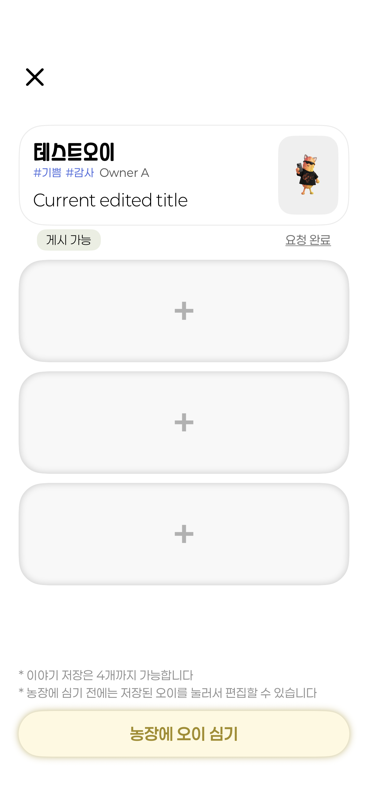
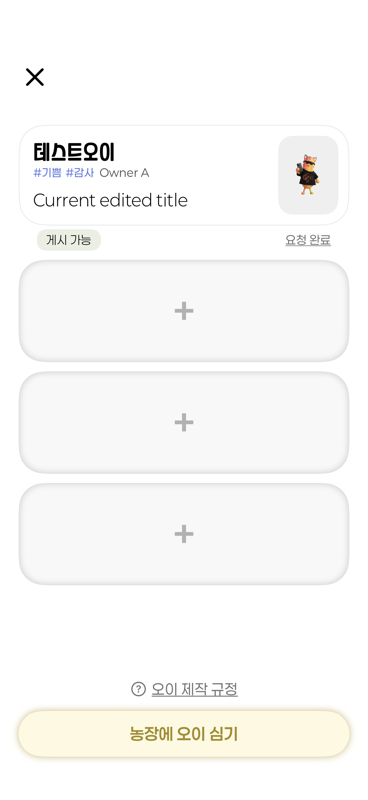
[feat] 이야기 목록에 오이 제작 규정 팝업 추가

Changed region(s): [[0.0598, 0.8125, 0.8668, 0.875]]

diff --git a/apps/ios/OiDonation/Features/Profile/OiStoryListView.swift b/apps/ios/OiDonation/Features/Profile/OiStoryListView.swift
@@ -25,6 +25,7 @@ struct OiStoryListView: View {
     var canPlant = false
 
     @State private var listHeight: CGFloat = 0
+    @State private var showsProductionRules = false
 
     var body: some View {
         Group {
@@ -300,22 +301,13 @@ struct OiStoryListView: View {
     }
 
     private var footer: some View {
-        // Figma: 12pt from the notices to the buttons, 13pt above the home indicator.
-        VStack(alignment: .leading, spacing: 12) {
-            // 13pt text on a 19.5pt (150%) line.
-            VStack(alignment: .leading, spacing: 4) {
-                ForEach(Array(notices.enumerated()), id: \.offset) { _, notice in
-                    Text("* \(notice)")
-                        .lineLimit(usesAccessibilityLayout ? nil : 1)
-                        .minimumScaleFactor(usesAccessibilityLayout ? 1 : 0.8)
-                        .fixedSize(horizontal: false, vertical: true)
-                        .frame(maxWidth: .infinity, alignment: .leading)
-                }
+        VStack(alignment: .leading, spacing: showsPublicationReview ? 2 : 12) {
+            if showsPublicationReview {
+                OiStoryProductionRulesButton(isPresented: $showsProductionRules)
+                    .frame(maxWidth: .infinity)
+            } else {
+                legacyNotices
             }
-            .font(.custom("Paperlogy-4Regular", size: 13, relativeTo: .subheadline))
-            .tracking(0.26)
-            .foregroundStyle(Color(red: 147 / 255, green: 147 / 255, blue: 147 / 255))
-            .lineSpacing(4)
 
             if showsPublicationReview, let onPlant {
                 Button(action: onPlant) {
@@ -347,6 +339,22 @@ struct OiStoryListView: View {
         .padding(.horizontal, 20)
         .padding(.bottom, 13)
         .background(Color(.systemBackground))
+    }
+
+    private var legacyNotices: some View {
+        VStack(alignment: .leading, spacing: 4) {
+            ForEach(Array(notices.enumerated()), id: \.offset) { _, notice in
+                Text("* \(notice)")
+                    .lineLimit(usesAccessibilityLayout ? nil : 1)
+                    .minimumScaleFactor(usesAccessibilityLayout ? 1 : 0.8)
+                    .fixedSize(horizontal: false, vertical: true)
+                    .frame(maxWidth: .infinity, alignment: .leading)
+            }
+        }
+        .font(.custom("Paperlogy-4Regular", size: 13, relativeTo: .subheadline))
+        .tracking(0.26)
+        .foregroundStyle(Color(red: 147 / 255, green: 147 / 255, blue: 147 / 255))
+        .lineSpacing(4)
     }
 
     private var createStoryFooterButton: some View {
@@ -477,6 +485,57 @@ struct OiStoryListView: View {
     }
 }
 
+// Figma 6101:9175 and 6101:9195. SwiftUI provides the system material and arrow.
+struct OiStoryProductionRulesButton: View {
+    @Binding var isPresented: Bool
+    @ScaledMetric(relativeTo: .caption) private var ruleLineHeight: CGFloat = 24
+
+    var body: some View {
+        Button { isPresented = true } label: {
+            HStack(spacing: 5) {
+                Image(systemName: "questionmark.circle")
+                    .font(.system(size: 16))
+                    .accessibilityHidden(true)
+                Text("오이 제작 규정")
+                    .font(.custom("Paperlogy-4Regular", size: 16, relativeTo: .body))
+                    .tracking(0.32)
+                    .underline()
+            }
+            .foregroundStyle(Color(oiRGB: 0x737373))
+            .frame(minHeight: 44)
+            .contentShape(.rect)
+        }
+        .buttonStyle(.plain)
+        .accessibilityIdentifier("storyList.productionRules")
+        .popover(isPresented: $isPresented, arrowEdge: .bottom) {
+            VStack(alignment: .leading, spacing: 0) {
+                rule(Text("이야기 저장은 \(Text("\(OiStoryListState.draftCapacity)개").foregroundStyle(.red))까지 가능합니다"))
+                rule(Text("농장에 심기 전에는 저장된 오이를 눌러서 편집할 수 있습니다"))
+                rule(Text("저장된 오이를 슬라이드하여 삭제할 수 있습니다"))
+                rule(Text("내용 검토가 완료되어야 농장에 오이를 심을 수 있습니다"))
+            }
+            .font(.custom("Paperlogy-4Regular", size: 12, relativeTo: .caption))
+            .tracking(0.24)
+            .foregroundStyle(Color(oiRGB: 0x232323))
+            .padding(.horizontal, 30)
+            .padding(.vertical, 20)
+            .frame(idealWidth: 362, maxWidth: 362, alignment: .leading)
+            .accessibilityIdentifier("storyList.productionRulesContents")
+            .presentationCompactAdaptation(.popover)
+            .presentationCornerRadius(38)
+            .presentationBackground(.regularMaterial)
+        }
+    }
+
+    private func rule(_ text: Text) -> some View {
+        HStack(alignment: .firstTextBaseline, spacing: 3) {
+            Text("*").accessibilityHidden(true)
+            text.fixedSize(horizontal: false, vertical: true)
+        }
+        .frame(minHeight: ruleLineHeight, alignment: .leading)
+    }
+}
+
 struct OiSeedBalanceLabel: View {
     let count: Int?
 
@@ -535,10 +594,6 @@ struct OiStorySeedIcon: View {
 extension OiStoryListView {
     // Figma `5400:7662` and `5400:7661` (#368).
     static let listGuidance = "본인이 만든 오이를 씨앗을 통해 농장에 심을 수 있습니다"
-    static let reviewListNotices = [
-        "이야기 저장은 4개까지 가능합니다",
-        "농장에 심기 전에는 저장된 오이를 눌러서 편집할 수 있습니다"
-    ]
     static let listNotices = [
         "이야기 저장은 4개까지 가능합니다",
         "농장에 심기 전에는 이야기 및 오이를 눌러서 편집할 수 있습니다"

diff --git a/apps/ios/OiDonationTests/OiRemoteStoreTests.swift b/apps/ios/OiDonationTests/OiRemoteStoreTests.swift
@@ -2917,6 +2917,44 @@ final class OiRemoteStoreTests: XCTestCase {
         XCTAssertNil(store.moderationResult(for: approved))
     }
 
+    @MainActor func testStoryProductionRulesUsesAnchoredPopoverOnIPhone() async throws {
+        struct PopoverSample: View {
+            @State private var showingRules = false
+
+            var body: some View {
+                VStack {
+                    Spacer()
+                    OiStoryProductionRulesButton(isPresented: $showingRules)
+                    Text("농장에 오이 심기")
+                        .font(.custom("Paperlogy-6SemiBold", size: 18))
+                        .frame(maxWidth: .infinity, minHeight: 50)
+                }
+                .padding(.horizontal, 20)
+                .task {
+                    try? await Task.sleep(for: .milliseconds(200))
+                    showingRules = true
+                }
+            }
+        }
+
+        let scene = try XCTUnwrap(UIApplication.shared.connectedScenes.compactMap { $0 as? UIWindowScene }.first)
+        let controller = UIHostingController(rootView: PopoverSample())
+        let window = UIWindow(windowScene: scene)
+        window.rootViewController = controller
+        window.makeKeyAndVisible()
+        defer { window.isHidden = true; window.rootViewController = nil; window.windowScene = nil }
+        try await Task.sleep(for: .seconds(1))
+        let popup = try XCTUnwrap(controller.presentedViewController)
+        XCTAssertNotNil(popup.popoverPresentationController, "The rules remain a popover in a compact size class")
+        let image = UIGraphicsImageRenderer(bounds: window.bounds).image { _ in
+            window.drawHierarchy(in: window.bounds, afterScreenUpdates: true)
+        }
+        let attachment = XCTAttachment(image: image)
+        attachment.name = "story-production-rules-popover"
+        attachment.lifetime = .keepAlways
+        add(attachment)
+    }
+
     @MainActor func testPublicationUsesLatestSavedContentAndRevision() async throws {
         let (store,backend,_,session,directory) = try context()
         defer { clean(session, directory: directory) }

diff --git a/apps/ios/OiDonation/Features/Profile/OiStoryListScreen.swift b/apps/ios/OiDonation/Features/Profile/OiStoryListScreen.swift
@@ -45,7 +45,7 @@ struct OiStoryListScreen: View {
         OiStoryListView(
             state: state,
             seedCount: nil,
-            notices: remote.autoStoryModeration ? OiStoryListView.reviewListNotices : OiStoryListView.listNotices,
+            notices: OiStoryListView.listNotices,
             guidance: remote.autoStoryModeration ? nil : OiStoryListView.listGuidance,
             onRetry: { Task { await remote.refresh(); await loadLocalDrafts() } },
             onAddSeed: nil,

diff --git a/project.md b/project.md
@@ -76,7 +76,7 @@
 
 **2026-11-08 확정(#239):** 4단계 배치 미리보기에서 위치·높이·방향을 정하고 **내 지도에 배치하기**를 누르면 꾸민 3D 오이가 이 기기의 계정별 지도에 바로 표시된다. 내 지도 배치는 공개 약관 없이 저장할 수 있다. 이야기·사진 없이 배치하던 부분은 2026-11-11(#278)에 변경했다. 서버의 작성 일시 중지는 서버 저장과 공개 요청에 적용된다.
 
-**2026-11-16 확정(#388):** 공개 등록에서 기존 운영자 사전 승인을 AI 자동검수로 전환한다. 동의하고 등록하면 제목·본문·오이 이름, 게시용 사진, 오이 외형 및 의상 이미지, 카드 이미지와 표지를 검수한다. 의미를 파악할 수 없는 초성·반복 문자 글과 타인을 겨냥하지 않은 욕설도 거부한다. 이야기 목록의 내용 검토 요청으로 검수한다. 통과한 초안은 게시 가능 상태로 보관한다. 작성자가 농장에 오이 심기를 선택하면 해당 버전을 공개한다. 코인은 사용하지 않는다. 거부된 글은 수정 필요 상태에서 사유를 확인하고 다시 작성할 수 있다. 기존 수동 검토 대기 글은 작성자가 초안으로 돌려 다시 등록할 수 있다. 공개 후 신고·작성자 제한·게시물 비공개 경로는 유지한다. 운영 전환 전 배포 버전에서는 종전 사전 검토가 적용된다.
+**2026-11-16 확정(#388):** 공개 등록에서 기존 운영자 사전 승인을 AI 자동검수로 전환한다. 동의하고 등록하면 제목·본문·오이 이름, 게시용 사진, 오이 외형 및 의상 이미지, 카드 이미지와 표지를 검수한다. 의미를 파악할 수 없는 초성·반복 문자 글과 타인을 겨냥하지 않은 욕설도 거부한다. 이야기 목록의 내용 검토 요청으로 검수한다. 통과한 초안은 게시 가능 상태로 보관한다. 작성자가 농장에 오이 심기를 선택하면 해당 버전을 공개한다. 코인은 사용하지 않는다. 목록 하단의 오이 제작 규정을 누르면 ver.4 규정 팝업을 표시한다. 거부된 글은 수정 필요 상태에서 사유를 확인하고 다시 작성할 수 있다. 기존 수동 검토 대기 글은 작성자가 초안으로 돌려 다시 등록할 수 있다. 공개 후 신고·작성자 제한·게시물 비공개 경로는 유지한다. 운영 전환 전 배포 버전에서는 종전 사전 검토가 적용된다.
 
 **2026-11-08 후속 확정(#240):** 공개 검토에 꾸민 오이의 옷·색상과 의상에 적용된 사진을 포함한다. 승인 후에는 제출 당시의 외형이 캠퍼스 지도와 현장 AR에 표시된다. 의상 사진 원본과 사용하지 않은 의상 디자인은 기기에 보관한다.
 
